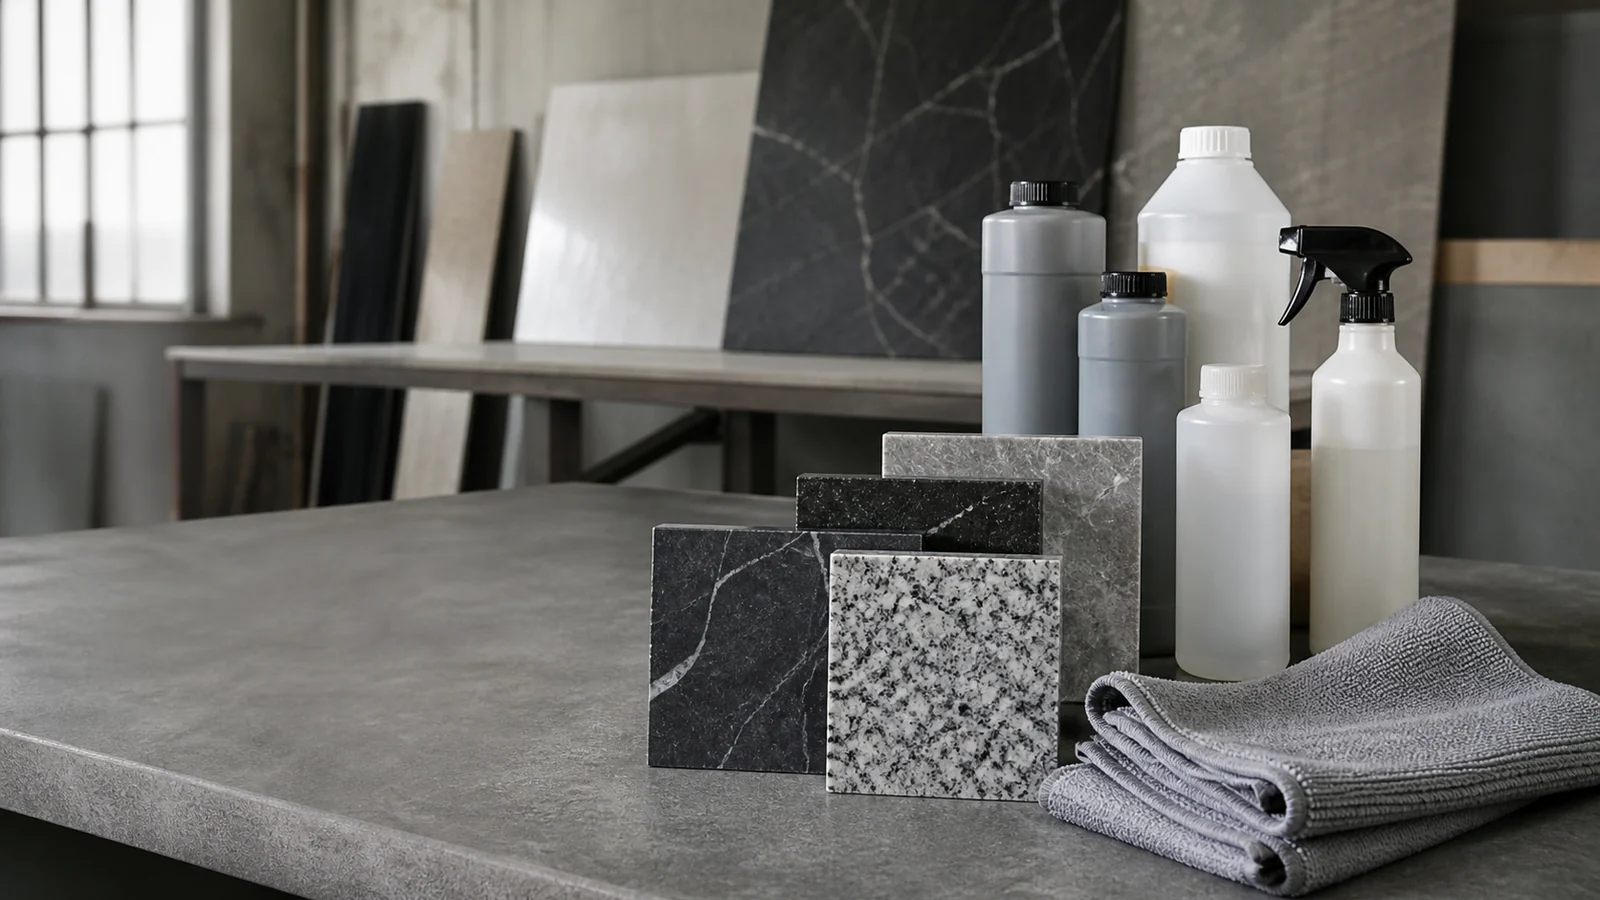
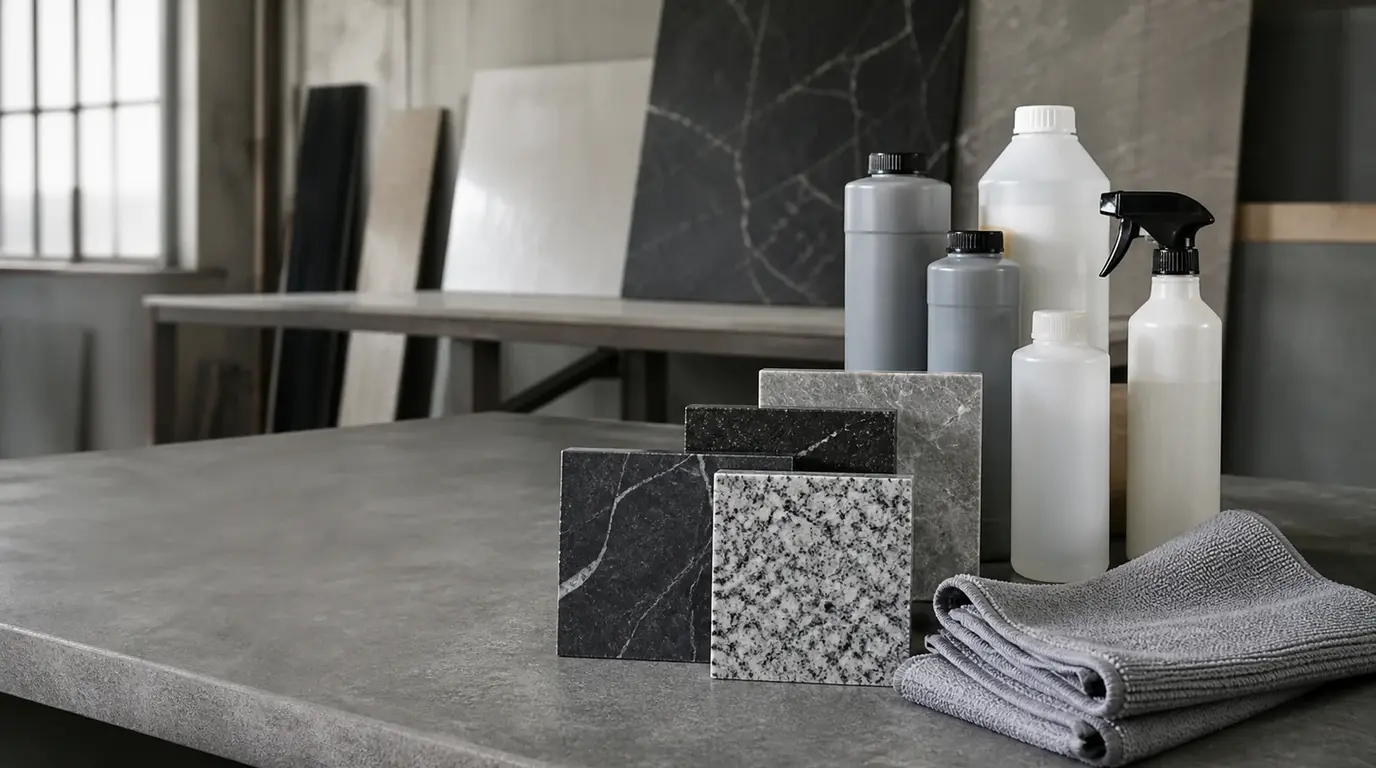
Optimize Delta treatment article for web

diff --git a/backend-storefront/content/blog/delta-tratamente-piatra-naturala.md b/backend-storefront/content/blog/delta-tratamente-piatra-naturala.md
@@ -1,6 +1,6 @@
 ---
-title: "Cum alegi tratamentul potrivit pentru piatră naturală: impregnare, protecție și efect"
-description: "Tipul pietrei, locul de montaj și efectul dorit dictează tratamentul. Ghid practic peste gama Delta Research, fără promisiuni de protecție permanentă."
+title: "Tratamente pentru piatră naturală: cum alegi soluția potrivită"
+description: "Ghid practic Delta Research: alege tratamentul pentru piatră naturală după suport, montaj, trafic, bază apă/solvent și efect natural sau umed."
 kicker: "Ghid tehnic · Delta Research"
 publishedAt: "2026-05-26"
 author: "Echipa ardmag"